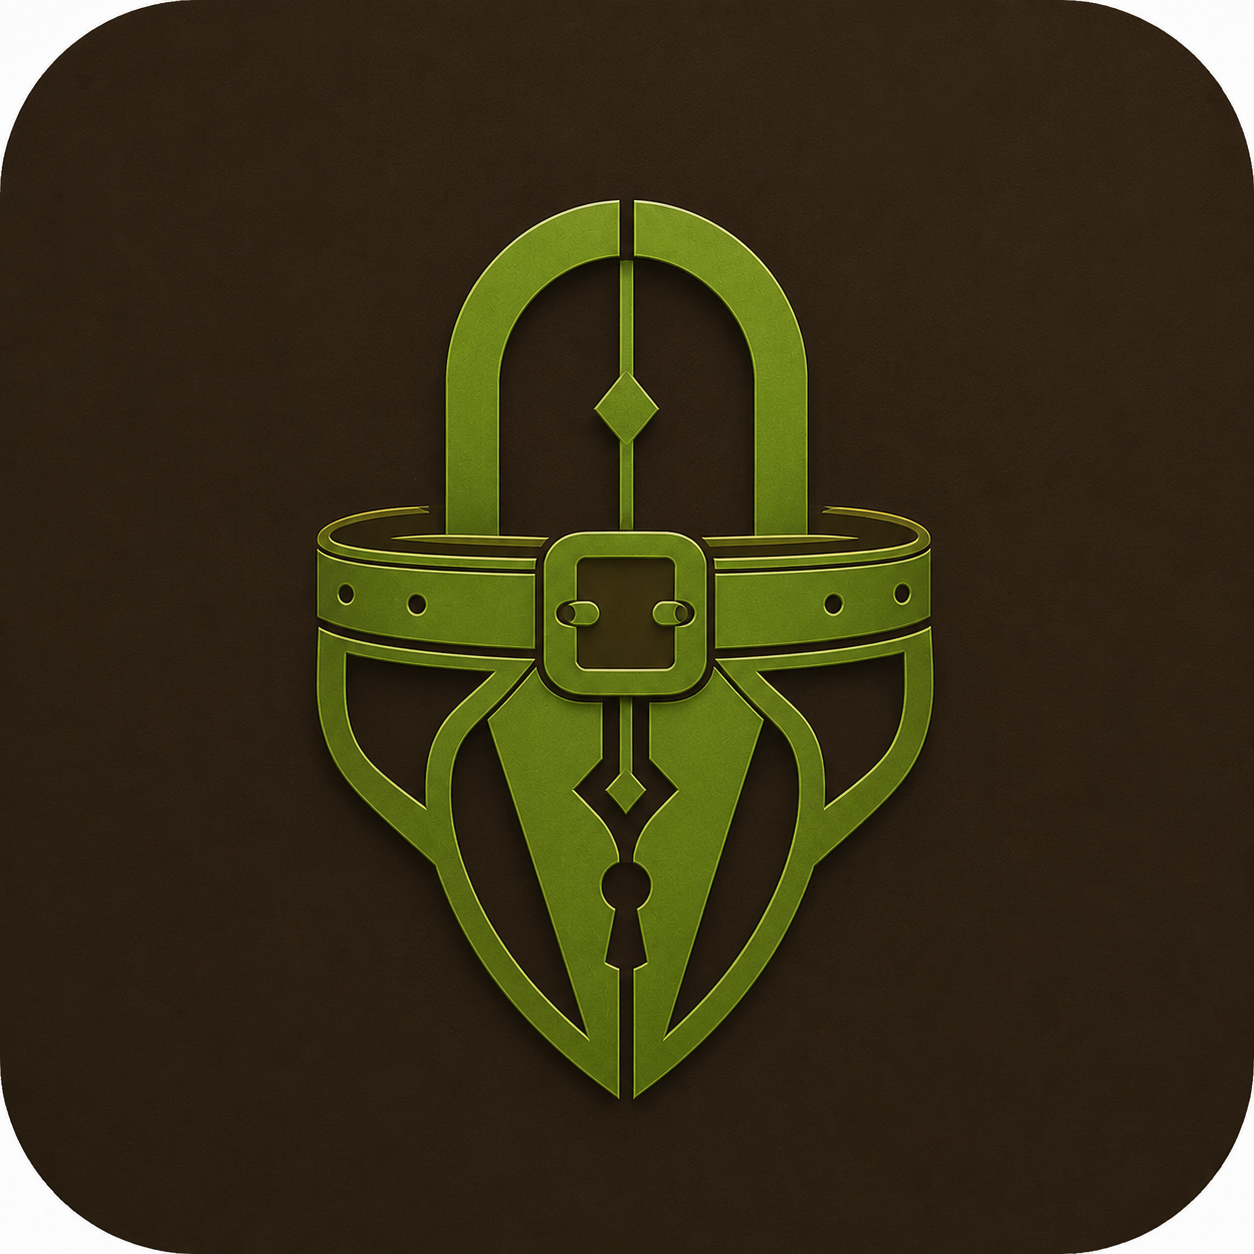
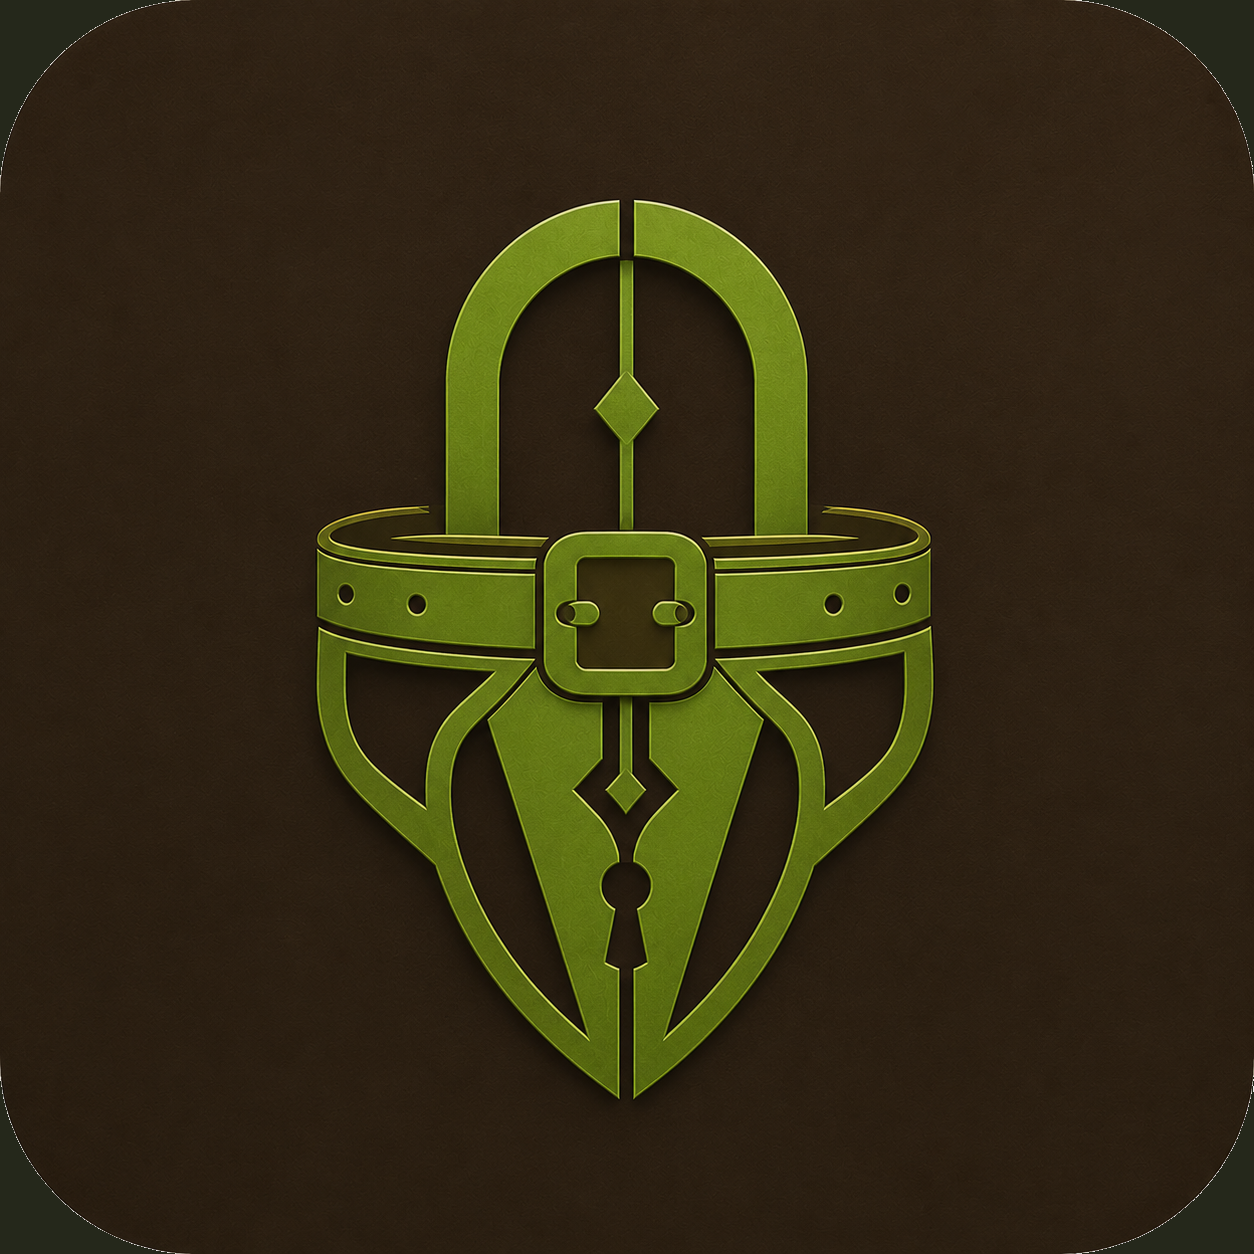
Vier Rückmeldungen von der ersten echten Nutzung
Die Kachel läuft — und bringt vier Dinge zutage, die sich erst beim
tatsächlichen Benutzen zeigen.

**Die App schloss sich, auch wenn man gerade drin war.** `abschluss()` in
shortcuts.js minimierte nach jedem Kommando bedingungslos, ohne zu prüfen, ob
die App den Vordergrund gerade erst durch das Kommando bekommen hatte oder
längst aktiv genutzt wurde — ein Uhr-Tipp riss damit auch aus einer laufenden
Sitzung. `trackSichtbarkeit()` hält fest, seit wann `document.visibilityState`
ununterbrochen `visible` ist; minimiert wird nur noch, wenn dieser Zeitpunkt
weniger als 1,2 s zurückliegt — dann hat das Kommando die App gerade erst
geweckt, statt sie mitten in der Nutzung zu unterbrechen.

**Version auf 2.1.x.** Die drei Build-Workflows rechneten `2.0.${Commits}`;
seit der Kachel, dem Kommando-Kanal und dem eigenen Uhr-Modul ist das mehr als
eine Patch-Fassung von 2.0.

**Hintergrund eine Spur grüner.** `--bg`/`--panel`/`--panel-2`/`--line` liefen
bisher klar braun (R > G > B); R um 15 % gesenkt, G um 10 % angehoben dreht sie
Richtung Oliv, ohne Helligkeit oder Kontrast anzutasten. theme-color und
manifest.webmanifest ziehen mit, sonst zeigte der Systembalken noch die alte
Farbe.

**Das PC-Icon zeigte weiße Dreiecke in den Ecken.** `resources/icon.png` ist
ein RGB-Bild ohne Alphakanal — die abgerundete Karte liegt auf einem
schlicht *weißen* quadratischen Canvas statt auf Transparenz oder der
Hintergrundfarbe. Electron reicht das Quadrat unverändert an .ico/AppImage
[…]

diff --git a/www/js/shortcuts.js b/www/js/shortcuts.js
@@ -41,6 +41,38 @@ export function setEntryHook(fn) { onNachEintrag = fn; }
 const WIEDERHOLFENSTER_MS = 4000;
 let zuletzt = { url: null, ms: 0 };
 
+// =========================== SICHTBARKEIT ===========================
+/**
+ * Seit wann die App ununterbrochen sichtbar ist — 0, wenn gerade nicht.
+ *
+ * Ein Kommando von der Uhr weckt die App aus dem Hintergrund und soll sie
+ * danach dorthin zurückschicken (`minimizeApp()`). Lief sie aber schon eine
+ * Weile im Vordergrund — man sieht sich gerade das Dashboard an —, wäre genau
+ * dasselbe Minimieren ein Rauswurf aus der eigenen Nutzung. Die Uhr weckt die
+ * Activity in beiden Fällen kurz auf; `document.visibilityState` allein
+ * unterscheidet die Fälle deshalb nicht zuverlässig, ihre *Dauer* schon: ein
+ * Kommando, das die App gerade erst geweckt hat, trifft auf `sichtbarSeitMs`
+ * von vor einem Wimpernschlag, ein Kommando während laufender Nutzung auf
+ * einen deutlich älteren Zeitstempel.
+ */
+let sichtbarSeitMs = 0;
+const BEREITS_OFFEN_MS = 1200;
+
+function trackSichtbarkeit() {
+  if (typeof document === 'undefined') return;
+  const aktualisieren = () => {
+    if (document.visibilityState === 'visible') { if (!sichtbarSeitMs) sichtbarSeitMs = Date.now(); }
+    else sichtbarSeitMs = 0;
+  };
+  aktualisieren();
+  document.addEventListener('visibilitychange', aktualisieren);
+}
+
+/** War die App schon eine Weile offen, bevor dieses Kommando ankam? */
+function warBereitsOffen() {
+  return sichtbarSeitMs > 0 && (Date.now() - sichtbarSeitMs) > BEREITS_OFFEN_MS;
+}
+
 /**
  * Ein Kommando ausführen.
  * @returns {Promise<boolean>} ob die URL überhaupt eins war
@@ -104,7 +136,9 @@ function mitPreis(plan) {
  */
 async function abschluss(meldung, cmd) {
   await notifyNow(meldung);
-  if (IS_NATIVE && !cmd.zeigen) minimizeApp();
+  // Wer gerade in der App war, soll drinbleiben — nur ein Kommando, das sie
+  // erst geweckt hat, schickt sie zurück, wo sie herkam.
+  if (IS_NATIVE && !cmd.zeigen && !warBereitsOffen()) minimizeApp();
 }
 
 // =========================== KURZBEFEHLE UND UHR ===========================
@@ -159,6 +193,7 @@ function syncUhr(settings) {
  * laufen.
  */
 export async function initShortcuts() {
+  trackSichtbarkeit();
   onAppUrlOpen(url => {
     runCommand(url).catch(e => console.error('Kommando fehlgeschlagen', e));
   });

diff --git a/www/css/app.css b/www/css/app.css
@@ -1,5 +1,5 @@
   :root {
-    --bg: #2b241b; --panel: #3a3024; --panel-2: #463b2d; --line: #5a4b39;
+    --bg: #25281b; --panel: #313524; --panel-2: #3c412d; --line: #4c5239;
     --text: #f3ead9; --muted: #b9a98e;
     --accent: #84cc16; --accent-strong: #65a30d; --accent-dim: #3f5212;
     --bad: #c2553f; --danger: #dc2626; --danger-dim: #4a1414;
@@ -181,7 +181,7 @@
   .qb.danger { border-color: var(--danger); background: var(--danger-dim); color: #fecaca; }
   .qb.danger:hover { background: var(--danger); color: #1a0808; }
   .qb.regen { border-color: var(--warm); background: rgba(200,144,96,0.12); color: var(--warm); }
-  .qb.regen.regen-available:hover { background: var(--warm); color: #2b241b; }
+  .qb.regen.regen-available:hover { background: var(--warm); color: #25281b; }
   .qb.regen.regen-active { background: rgba(200,144,96,0.25); color: var(--warm); cursor: not-allowed; }
   .qb.regen.regen-cooldown { opacity: 0.45; cursor: not-allowed; background: var(--panel-2);
     border-color: var(--line); color: var(--muted); }

diff --git a/www/index.html b/www/index.html
@@ -3,7 +3,7 @@
 <head>
 <meta charset="utf-8">
 <meta name="viewport" content="width=device-width, initial-scale=1, viewport-fit=cover">
-<meta name="theme-color" content="#2b241b">
+<meta name="theme-color" content="#25281b">
 <title>Locked</title>
 <link rel="manifest" href="manifest.webmanifest">
 <link rel="icon" type="image/png" href="favicon.png">

diff --git a/README.md b/README.md
@@ -6,8 +6,8 @@ ein Quellcode (`www/`), drei Hüllen.
 | Plattform | Bezug | Installation |
 |---|---|---|
 | Android | APK aus dem [neuesten Release](https://github.com/TheMachtin/locked-android/releases) | antippen → „Von unbekannter Quelle zulassen" |
-| Windows | `Locked-Setup-2.0.N.exe` aus demselben Release | ausführen; portable Variante liegt daneben |
-| Linux | `Locked-2.0.N.AppImage` | ausführbar machen und starten |
+| Windows | `Locked-Setup-2.1.N.exe` aus demselben Release | ausführen; portable Variante liegt daneben |
+| Linux | `Locked-2.1.N.AppImage` | ausführbar machen und starten |
 | Browser | <https://themachtin.github.io/locked-android/> | Edge/Chrome → „App installieren" |
 
 Alle Installationen teilen sich dieselbe OneDrive-Datei und führen parallele
@@ -371,7 +371,7 @@ Welche URI die laufende Installation sendet, steht in der App unter
 ## Build
 
 Jeder Push auf `main` löst drei Workflows aus, die dieselbe Versionsnummer
-berechnen (Commit-Anzahl → `2.0.N`) und sie über `scripts/bake-version.sh`
+berechnen (Commit-Anzahl → `2.1.N`) und sie über `scripts/bake-version.sh`
 eintragen — Handy, PC und Web zeigen nach einem Push also dieselbe Nummer:
 
 | Workflow | Ergebnis |
